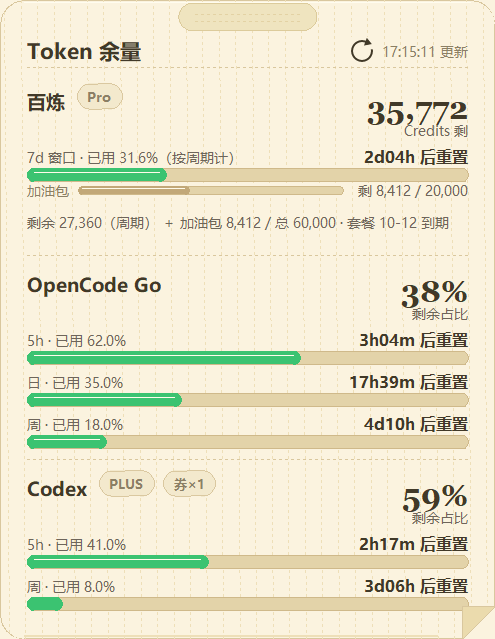
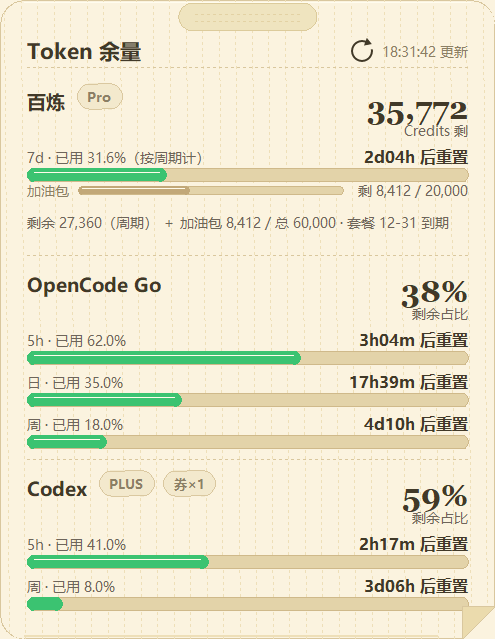
docs: 门面素材刷新至 v1.9.0（去窗字真态/foot v1.9.0）

Changed region(s): [[0.0909, 0.2379, 0.4848, 0.2676], [0.7879, 0.0595, 0.8788, 0.0892], [0.7576, 0.3271, 0.8485, 0.3568]]

diff --git a/tools/make_gif.py b/tools/make_gif.py
@@ -75,8 +75,10 @@ TOTAL_BYTES = 11263948                     # 示例包大小 10.7 MB
 
 
 def u_bailian() -> Usage:
-    """v1.8.3 口径：7d=40,000 已用 31.6%（剩 27,360）＋加油包 8,412/20,000 →
-    大数字 35,772=Σfloor；C 行尾带 M23 套餐后缀（+23 天 → 恒灰档，重跑不变色）。"""
+    """v1.9.0 口径：7d=40,000 已用 31.6%（剩 27,360）＋加油包 8,412/20,000 →
+    大数字 35,772=Σfloor；C 行尾带 M23 套餐后缀。**plan_end 取绝对日期 2026-12-31**
+    （M27 选型：固定文案「 · 套餐 12-31 到期」零漂移；2026 内恒 >7 天灰档，
+    2027 起自动转跨年全日期显示，届时随素材例行刷新改期）。"""
     weekly, pct, ar = 40000.0, 0.316, 8412.0
     return Usage(provider="bailian", ok=True, spec="pro", unit="credits",
                  used=weekly * pct, total=60000.0,
@@ -84,7 +86,7 @@ def u_bailian() -> Usage:
                  resets_at=_NOW + timedelta(hours=52, minutes=12),
                  windows=[Window("7d", pct, _NOW + timedelta(hours=52, minutes=12))],
                  addon_remaining=ar,
-                 plan_end=_NOW + timedelta(days=23, hours=9))
+                 plan_end=datetime(2026, 12, 31, 4, tzinfo=timezone.utc))
 
 
 def u_go() -> Usage:
@@ -108,9 +110,10 @@ def u_codex() -> Usage:
 
 
 def make_info() -> updater.UpdateInfo:
-    return updater.UpdateInfo(version="1.9.0", url="https://github.com/fake/repo/x.exe",
+    # 演示目标版本 v2.0.0（M27：须 ≠ 当前 APP_VERSION，避免弹窗自环「v1.9.0→v1.9.0」）
+    return updater.UpdateInfo(version="2.0.0", url="https://github.com/fake/repo/x.exe",
                               notes=NOTES_GIF, digest=None, size=TOTAL_BYTES,
-                              published="2026-09-19T08:12:34Z")
+                              published="2026-12-19T08:12:34Z")
 
 
 def pump(widgets, ms: float) -> None:

diff --git a/README.md b/README.md
@@ -88,7 +88,7 @@ python cli.py                     # console view of the same collected data
 
 主浮窗 / 设置页 / 更新弹窗 / 贴边吸附 / OpenCode Go 三窗条 / Codex 双进度条——见上文截图（alt 文案对应）。
 
-> **演示数据说明**：截图与动图中的数值均为演示数据（示例口径 35,772 / 「套餐 10-12 到期」/ 弹窗 v1.9.0 示例版本等），非真实账户数据。真实凭据态下各源常含橙色告警档，观感不佳，故演示数值注入的是渲染层（与真数据同一条渲染路径），界面排版与实机一致。
+> **演示数据说明**：截图与动图中的数值均为演示数据（示例口径 35,772 /「套餐 12-31 到期」/ 更新弹窗示例版本 v1.8.1→v1.9.0 与动图 v1.9.0→v2.0.0 等），非真实账户数据。真实凭据态下各源常含橙色告警档，观感不佳，故演示数值注入的是渲染层（与真数据同一条渲染路径），界面排版与实机一致。
 
 ### 构建与验证
 
